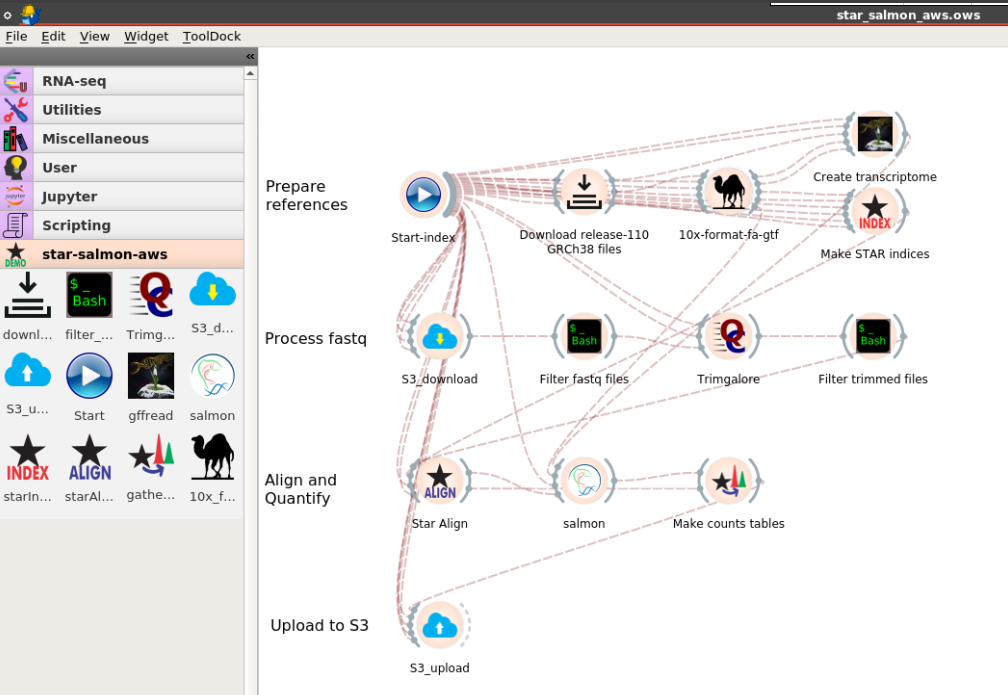
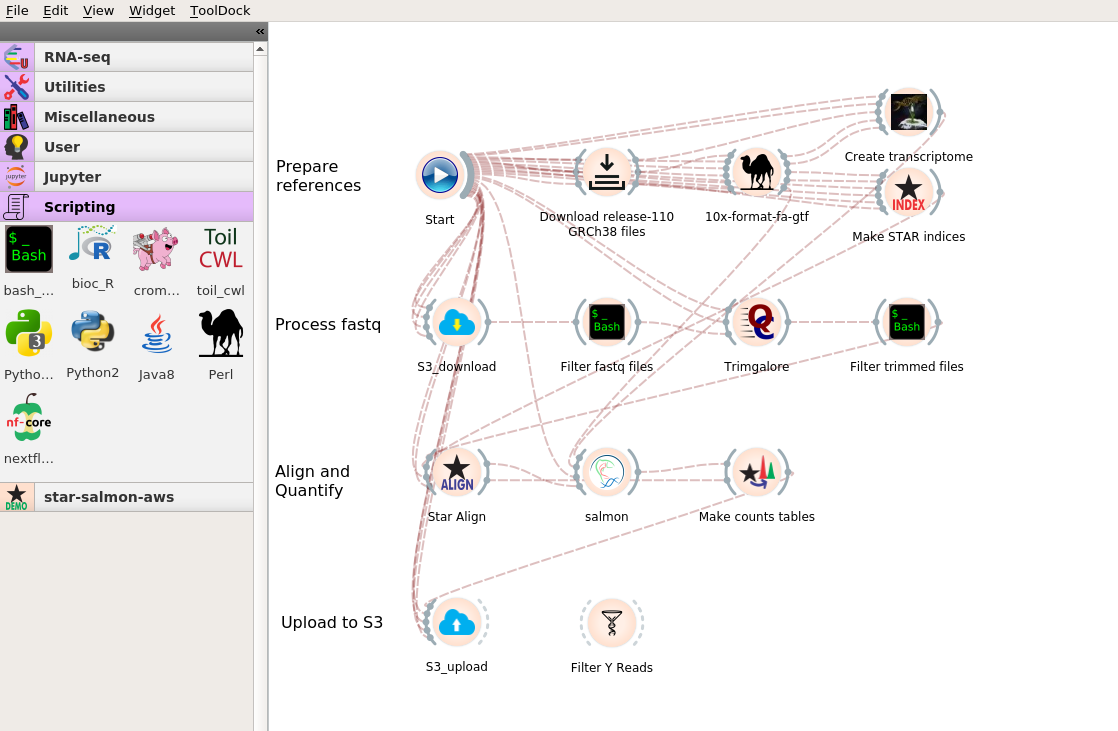
added yfilter

Changed region(s): [[0.0, 0.0, 1.0, 1.0], [0.4921, 0.8158, 0.5843, 0.9367], [0.5843, 0.7554, 0.6151, 0.7856]]

diff --git a/star_salmon_aws/widgets/star_salmon_aws/filterY/filterY.py b/star_salmon_aws/widgets/star_salmon_aws/filterY/filterY.py
@@ -1,0 +1,53 @@
+import os
+import glob
+import sys
+import functools
+import jsonpickle
+from collections import OrderedDict
+from Orange.widgets import widget, gui, settings
+import Orange.data
+from Orange.data.io import FileFormat
+from DockerClient import DockerClient
+from BwBase import OWBwBWidget, ConnectionDict, BwbGuiElements, getIconName, getJsonName
+from PyQt5 import QtWidgets, QtGui
+
+class OWfilterY(OWBwBWidget):
+    name = "filterY"
+    description = "Remove Y chromosome reads"
+    priority = 10
+    icon = getIconName(__file__,"filtered_y_chromosome_resized_square.png")
+    want_main_area = False
+    docker_image_name = "biodepot/yfilter"
+    docker_image_tag = "latest"
+    inputs = [("trigger",str,"handleInputstrigger")]
+    outputs = [("outputDir",str)]
+    pset=functools.partial(settings.Setting,schema_only=True)
+    runMode=pset(0)
+    exportGraphics=pset(False)
+    runTriggers=pset([])
+    triggerReady=pset({})
+    inputConnectionsStore=pset({})
+    optionsChecked=pset({})
+    aligneddir=pset(None)
+    sequenceDir=pset(None)
+    outputDir=pset(None)
+    overwritefiles=pset(False)
+    nThreads=pset(4)
+    def __init__(self):
+        super().__init__(self.docker_image_name, self.docker_image_tag)
+        with open(getJsonName(__file__,"filterY")) as f:
+            self.data=jsonpickle.decode(f.read())
+            f.close()
+        self.initVolumes()
+        self.inputConnections = ConnectionDict(self.inputConnectionsStore)
+        self.drawGUI()
+    def handleInputstrigger(self, value, *args):
+        if args and len(args) > 0: 
+            self.handleInputs("trigger", value, args[0][0], test=args[0][3])
+        else:
+            self.handleInputs("inputFile", value, None, False)
+    def handleOutputs(self):
+        outputValue=None
+        if hasattr(self,"outputDir"):
+            outputValue=getattr(self,"outputDir")
+        self.send("outputDir", outputValue)
